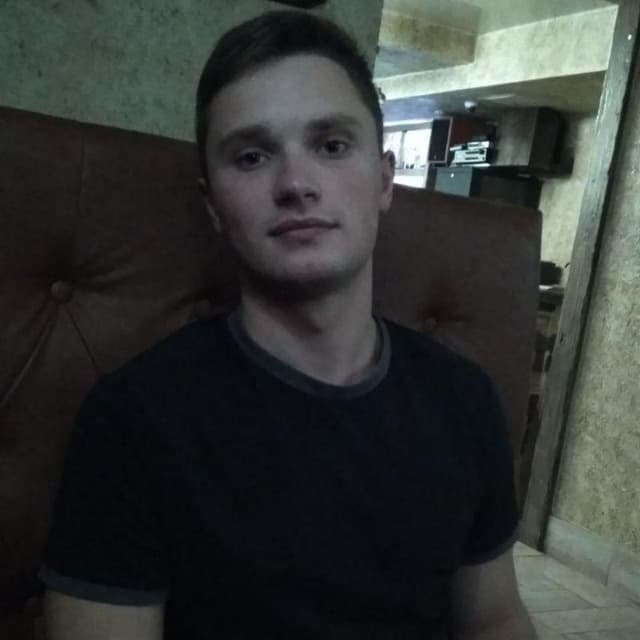
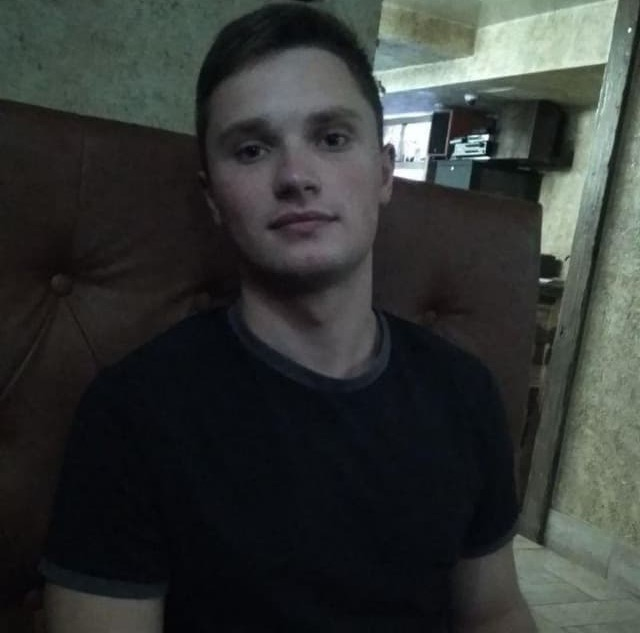
replace photo profile

diff --git a/index.html b/index.html
@@ -29,7 +29,7 @@
 			<div class="container">
 				<div class="header__row">
 					<div class="img">
-						<img class="image" src="./img/my-photo3.jpg" alt="my-photo">
+						<img class="image" src="./img/my-photo2.jpg" alt="my-photo">
 					</div>
 					<div class="information">
 						<h1 class="information__name">Dmytro Herasym</h1>
